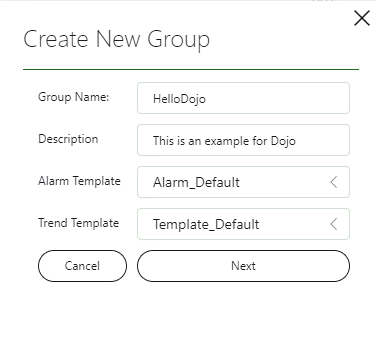
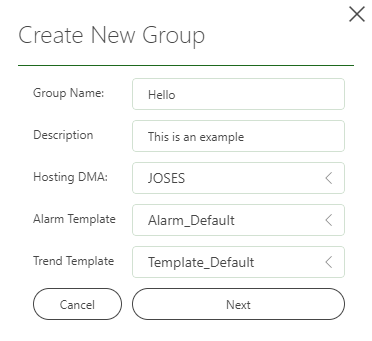
Changes 1.0.1-CU5

diff --git a/user-guide/Standard_Apps/Monitoring_Solutions/Ping_Monitoring/Ping_Monitoring_UI.md b/user-guide/Standard_Apps/Monitoring_Solutions/Ping_Monitoring/Ping_Monitoring_UI.md
@@ -18,9 +18,27 @@ The Ping Monitoring tool UI consists of the following main components:
 
 You can find the following functionalities in the header bar of the application:
 
-- **Refresh**: Available only on the [*Destinations* page](#the-destinations-page). Allows you to update the destinations available in your DataMiner System.
+- On the [*Destinations* page](#the-destinations-page):
 
-- **Alarm History**: Available only on the [*Alarms* page](#the-alarms-page). Allows you to access all alarms that occurred in the last 15 minutes, hour, 3 hours, or 24 hours.
+  - **Refresh**: Allows you to reload the data on the page.
+  - **Add destination**: Allows you to [add a new destination](xref:Ping_Monitoring_managing_groups_destinations#adding-a-new-destination).
+  - **Edit**: Allows you to [edit the selected destination](xref:Ping_Monitoring_managing_groups_destinations#editing-a-destination).
+  - **Delete**: Allows you to [delete the selected destination](xref:Ping_Monitoring_managing_groups_destinations#deleting-a-destination).
+
+- On the [*Grid View* page](#the-grid-view-page):
+
+  - **Refresh**: Allows you to reload the data on the page.
+
+- On the [*Groups* page](#the-groups-page):
+
+  - **Refresh**: Allows you to reload the data on the page.
+  - **Create group**: Allows you to [create a new group](xref:Ping_Monitoring_managing_groups_destinations#creating-a-new-group).
+  - **Edit**: Allows you to [edit the selected group](xref:Ping_Monitoring_managing_groups_destinations#editing-a-group).
+  - **Delete**: Allows you to [delete the selected group](xref:Ping_Monitoring_managing_groups_destinations#deleting-a-group).
+
+- On the [*Alarms* page](#the-alarms-page):
+
+  - **Alarm History**: Allows you to access all alarms that occurred in the last 15 minutes, hour, 3 hours, 12 hours or 24 hours.
 
 ## The Ping Monitoring sidebar
 
@@ -38,7 +56,7 @@ The sidebar on the left of the Ping Monitoring tool contains buttons that can be
 
 ### The 'Destinations' page
 
-The *Destinations* page offers an overview of all internet destinations in your DataMiner System receiving ping commands on a predefined, customized basis.
+The *Destinations* page offers an overview of all IP addresses in your DataMiner System receiving ping commands on a predefined, customized basis.
 
 The following information is available for each destination:
 
@@ -50,7 +68,7 @@ The following information is available for each destination:
 
 - **Admin status**: The status (enabled or disabled) of the destination.
 
-- **Ping result**: The time required for destinations to receive and respond to a ping command, e.g. *4 ms*.
+- **Ping result**: The time it took for the server to reply to the last ping command, e.g. *4 ms*.
 
 - **Cycle packet loss**: The percentage of lost packets during ping command and response process, e.g. *0.00 %*.
 
@@ -100,4 +118,4 @@ On the *Destinations* and *Grid View* pages, a filter pane on the left enables y
 
 To limit the filter pane to an overview of the currently active filters, enable the toggle button in the top-right corner. Disable the toggle button to return to the full view.
 
-In the lower-left corner, you can see the total destinations as well as the destinations that are currently active in your DataMiner System.
+In the lower-left corner, you can see the total destinations as well as the destinations that are currently active in your DataMiner System. Also, a progress bar above those destinations will count down to the next ping command.

diff --git a/user-guide/Standard_Apps/Monitoring_Solutions/Ping_Monitoring/Ping_Monitoring_managing_groups_destinations.md b/user-guide/Standard_Apps/Monitoring_Solutions/Ping_Monitoring/Ping_Monitoring_managing_groups_destinations.md
@@ -16,7 +16,7 @@ uid: Ping_Monitoring_managing_groups_destinations
 
    This will open the *Create New Group* window.
 
-1. Specify a name, description, alarm template, and trend template.
+1. Specify a name, description, hosting DMA, alarm template, and trend template.
 
    For example:
 
